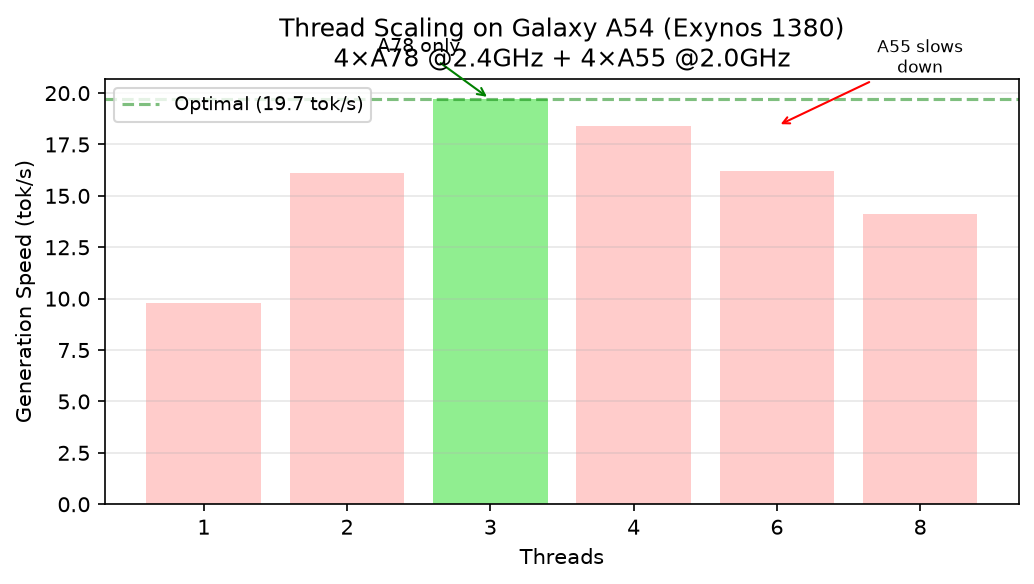
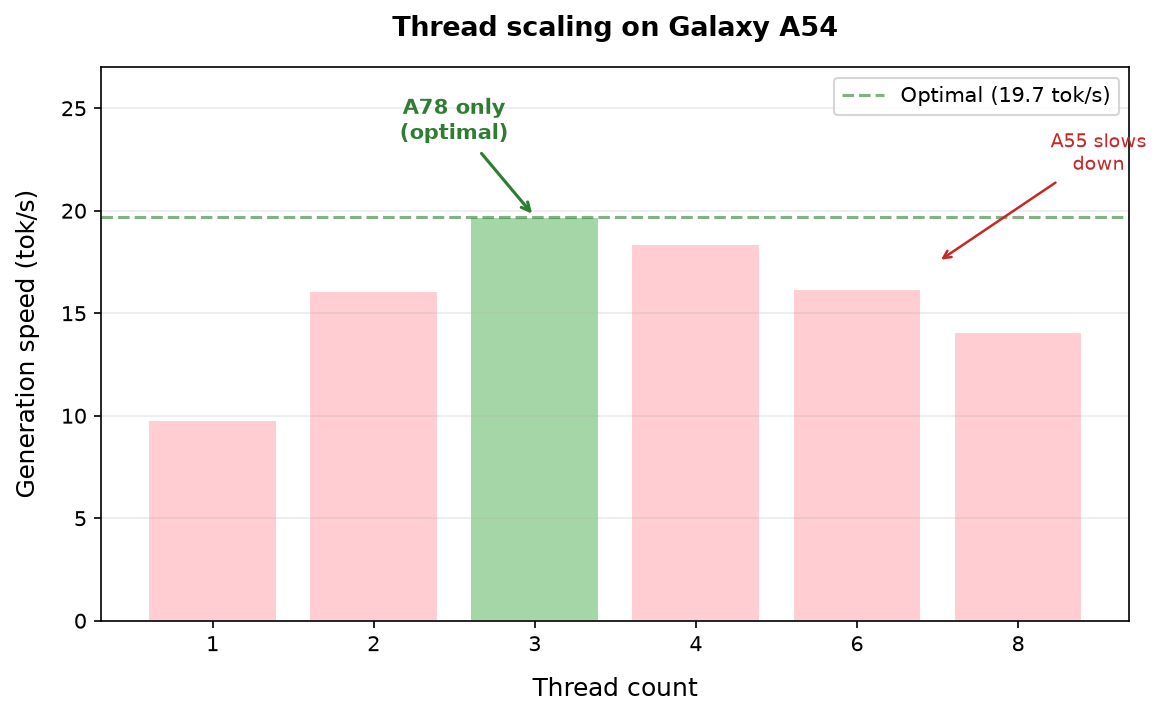
Fix: esclarece benchmarks reais vs estimados + corrige figura 3
- Secoes renomeadas: 'Device Projections (Unvalidated Estimates)'
- Heatmap caption: 'Estimates based on bandwidth formula, validated only on A54*'
- Tabela de projecoes marcada como estimativas
- Figura 3: mais espaco vertical, anotacoes movidas pra fora do grafico
- A54 e o UNICO dispositivo com medicoes reais

Assisted-by: opencode

Changed region(s): [[0.0, 0.0, 0.9903, 0.9863], [0.0619, 0.6781, 0.0928, 0.8014], [0.0619, 0.5548, 0.0928, 0.6164]]

diff --git a/paper/paper.tex b/paper/paper.tex
@@ -235,12 +235,12 @@ Figure~\ref{fig:speed} shows the bandwidth model (Equation~\ref{eq:bw}) overlaid
 \item \textbf{Model error:} The bandwidth model deviates by up to $\sim$20\% from the two real measurements on the only validated device, and has not been validated on any other hardware. All values in Table~\ref{tab:fulldev} beyond the A54 row should be treated as rough estimates.
 \end{enumerate}
 
-\subsection{Device Projection Heatmap}
+\subsection{Device Projections (Estimates)}
 
 \begin{figure}[ht]
 \centering
 \includegraphics[width=\textwidth]{fig_device_heatmap.png}
-\caption{Projected generation speed across 19 devices and 3 model tiers. Green cells indicate $>$20 tok/s; yellow is 10--20; red is $<$10. The A54 (marked with *) is the only device with real measurements; all others are unvalidated analytical projections.}
+\caption{\textbf{Estimates} (not measurements) of generation speed (estimates based on bandwidth formula, validated only on A54*) and 3 model tiers. Green cells indicate $>$20 tok/s; yellow is 10--20; red is $<$10. The A54 (marked with *) is the only device with real measurements; all others are unvalidated analytical projections.}
 \label{fig:heatmap}
 \end{figure}
 
@@ -360,7 +360,7 @@ F.~Souza, R.~Nogueira, and R.~Lotufo.
 
 \begin{table}[ht]
 \centering
-\caption{Projected generation speed (tok/s) across 19 Android devices. $\eta = 0.66$, BW$_{\text{eff}} = 0.82 \times$ theoretical. Only the A54 row has been validated with real measurements; all other rows are analytical projections.}
+\caption{\textbf{Estimates} (not measurements) of generation speed (tok/s) across 19 Android devices. $\eta = 0.66$, BW$_{\text{eff}} = 0.82 \times$ theoretical. Only the A54 row has been validated with real measurements; all other rows are analytical projections.}
 \label{tab:fulldev}
 \small
 \begin{tabular}{lcccccc}